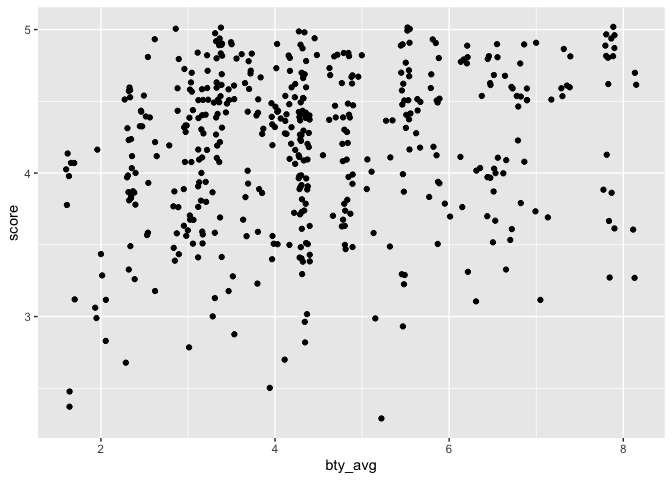
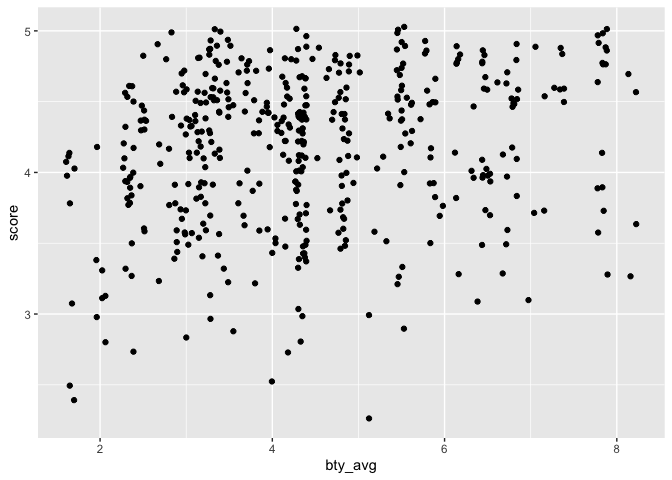
Part 2

diff --git a/lab-10.md b/lab-10.md
@@ -70,6 +70,72 @@ ggplot(evals, aes(x = bty_avg, y = score)) +
 
 ## Exercise 1
 
+Fitted regression equation: $$\hat{y} = 3.88034 + 0.06664x$$
+
+This equation suggests that a one-point increase in beauty predicts a
+0.06664-point increase in course evaluation.
+
+``` r
+m_bty <- lm(evals$score ~ evals$bty_avg)
+summary(m_bty)
+```
+
+    ## 
+    ## Call:
+    ## lm(formula = evals$score ~ evals$bty_avg)
+    ## 
+    ## Residuals:
+    ##     Min      1Q  Median      3Q     Max 
+    ## -1.9246 -0.3690  0.1420  0.3977  0.9309 
+    ## 
+    ## Coefficients:
+    ##               Estimate Std. Error t value Pr(>|t|)    
+    ## (Intercept)    3.88034    0.07614   50.96  < 2e-16 ***
+    ## evals$bty_avg  0.06664    0.01629    4.09 5.08e-05 ***
+    ## ---
+    ## Signif. codes:  0 '***' 0.001 '**' 0.01 '*' 0.05 '.' 0.1 ' ' 1
+    ## 
+    ## Residual standard error: 0.5348 on 461 degrees of freedom
+    ## Multiple R-squared:  0.03502,    Adjusted R-squared:  0.03293 
+    ## F-statistic: 16.73 on 1 and 461 DF,  p-value: 5.083e-05
+
+## Exercise 2
+
+``` r
+# Visualize the regression lines
+evals$score_p <- predict(m_bty, newdata = evals)
+
+ggplot(evals, aes(x = bty_avg, y = score)) +
+  geom_jitter() +
+  geom_line(aes(y = score_p), color = "red") + 
+  labs(x = "Beauty", y = "Score") +
+  theme_minimal()
+```
+
+![](lab-10_files/figure-gfm/unnamed-chunk-2-1.png)<!-- -->
+
+## Exercise 3
+
+The scores do not much with beauty ratings. That is, a one-point
+increase in beauty predicts a 0.06664-point increase in course
+evaluation scores.
+
+The intercept represents the avergae course evaluation scores of
+professors with a beauty rating of zero. It is more of a mathematical
+artifact in this case because beauty is rated on a scale from 1 to 10.
+Nobody will get a zero in beauty ratings. The meaningful minimum of
+beauty rating is 1.
+
+The $R^2$ is .035. This indicates beauty ratings explain 3.5% of the
+variance in course evaluation scores. This is a minor piece of the
+story.
+
+I assume there will be a lot of uncertainty around the line. At this
+stage, the substaintial shade may couse the confusion that the model is
+strong and certain.
+
+# Part 3
+
 ## Hint
 
 For Exercise 12, the `relevel()` function can be helpful!
